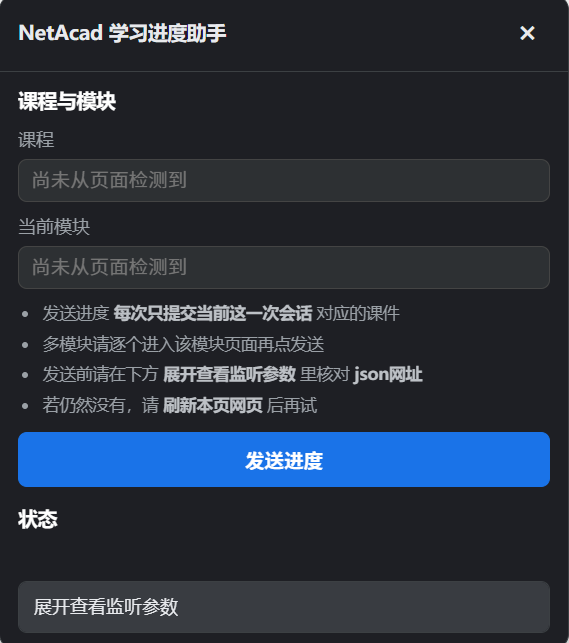
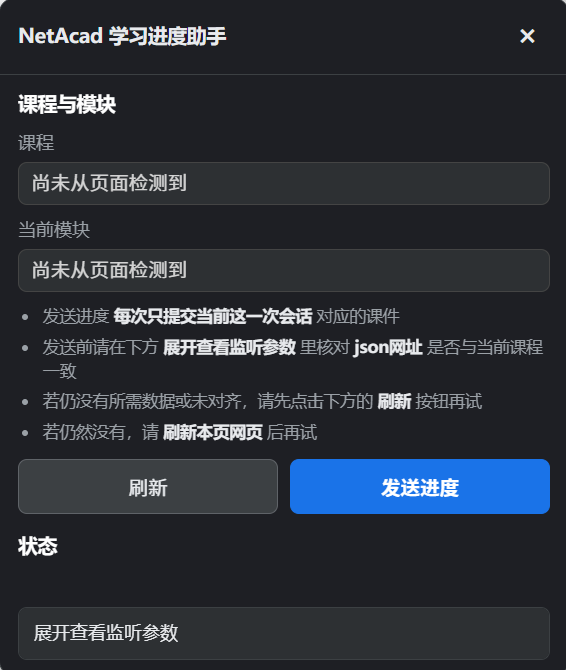
Fix Bug

diff --git a/progress-common.js b/progress-common.js
@@ -228,7 +228,7 @@ function clearCaptureDetail(el) {
   el.replaceChildren();
 }
 
-function renderCaptureDetail(el, coreObj, urls, counts) {
+function renderCaptureDetail(el, coreObj, urls) {
   if (!el) return;
   const preCls = captureDetailPreClass(el);
   clearCaptureDetail(el);
@@ -249,8 +249,6 @@ function renderCaptureDetail(el, coreObj, urls, counts) {
   appendPre(coreObj);
   appendHeading("json网址");
   appendPre(urls ?? null);
-  appendHeading("数量预览");
-  appendPre(counts ?? null);
 }
 
 /** 刷新进度 UI */
@@ -343,7 +341,8 @@ async function refreshProgressInto(els, opts) {
       会话类型: isSuppl ? "补充小节" : modFromSession ? "正课" : "其他",
       会话中的模块编号: isSuppl ? null : modFromSession,
       capturedAt: c?.capturedAt ? new Date(c.capturedAt).toLocaleString() : null,
-    }, urlsForDetail, counts);
+      数量预览: counts,
+    }, urlsForDetail);
   } catch {
     els.lessonLine.textContent = MSG_NEED_REFRESH;
     els.syncLine.textContent = MSG_NEED_REFRESH;

diff --git a/content.js b/content.js
@@ -147,9 +147,7 @@
     tip.className = "netacad-adl-tip";
     tip.innerHTML = `<ul class="netacad-adl-tip-list">
 <li>发送进度 <strong>每次只提交当前这一次会话</strong> 对应的课件</li>
-<li>多模块请逐个进入该模块页面再点发送</li>
-<li>补充小节可能没有模块编号</li>
-<li>发送前请在下方 <strong>展开查看监听参数</strong> 里核对 <strong>json网址</strong> 与 <strong>数量预览</strong> 是否与当前课程一致</li>
+<li>发送前请在下方 <strong>展开查看监听参数</strong> 里核对 <strong>json网址</strong> 是否与当前课程一致</li>
 <li>若仍没有所需数据或未对齐，请先点击下方的 <strong>刷新</strong> 按钮再试</li>
 <li>若仍然没有，请 <strong>刷新本页网页</strong> 后再试</li>
 </ul>`;

diff --git a/popup.html b/popup.html
@@ -86,11 +86,7 @@
 
         <li>发送进度 <strong>每次只提交当前这一次会话</strong> 对应的课件</li>
 
-        <li>多模块请逐个进入该模块页面再点发送</li>
-
-        <li>补充小节可能没有模块编号</li>
-
-        <li>发送前请在下方 <strong>展开查看监听参数</strong> 里核对 <strong>json网址</strong> 与 <strong>数量预览</strong> 是否与当前课程一致</li>
+        <li>发送前请在下方 <strong>展开查看监听参数</strong> 里核对 <strong>json网址</strong> 是否与当前课程一致</li>
 
         <li>若仍没有所需数据或未对齐，请先点击下方的 <strong>刷新</strong> 按钮再试</li>
 

diff --git a/background.js b/background.js
@@ -715,7 +715,7 @@ function heardSessionSummary(capture) {
     const m = nonEmptyModuleId(hints.moduleId);
     const tail = tailM[1];
     return {
-      line: m ? m : `后缀 ${tail}，请打开一节正课以确认`,
+      line: m ? m : tail,
       numericHint: m || "",
     };
   }

diff --git a/README.md b/README.md
@@ -31,6 +31,6 @@
 
 2. **每点一次发送**，一般只提交 **你现在这一小段学习里对应的那份课件进度**；如果一门课里有多个章节要分别报送，请 **分别进入对应章节所在的页面**，再逐个发送。  
 
-   ![image-20260509232012736](./image/2.png)
+   ![image-20260510020229171](./image/2.png)
 
-3. 发送前可在 **展开查看监听参数** 里核对 **一串 json 开头的网址**（以及条目数量）是否和眼下正在学的这一节相符。
+3. 发送前可在 **展开查看监听参数** 里核对 **一串 json 开头的网址** 是否和眼下正在学的这一节相符。
